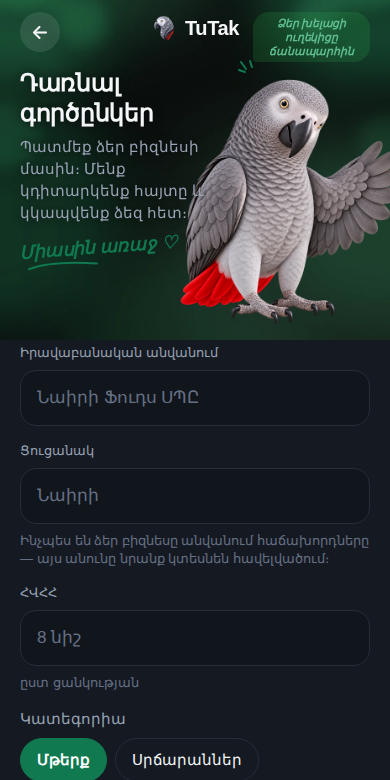
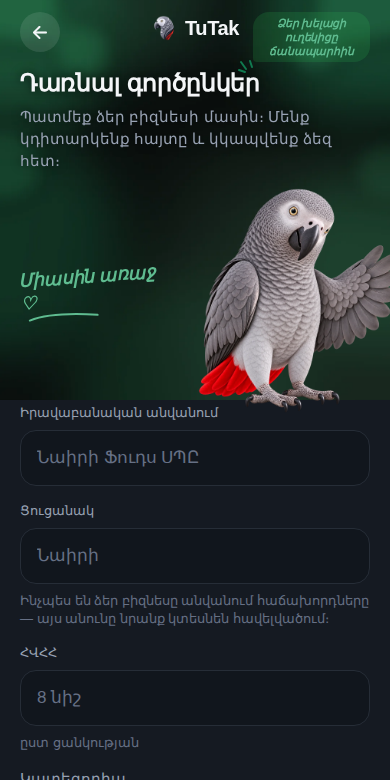
mobile: Jako scene — words above the bird, note beside him, nothing on a wing
The owner saw titles lying on the wing and notes lost in the ground. The
halo was not the answer; not putting text on the bird is. The stage is
now the words at full width, then a fixed-height zone in which Jako
stands at the right and the handwriting sits in the free ground to his
left, clear of the whole frame. The stage takes the height its language
needs, with no measurement. Handwriting in the deep brand green on the
light ground and the light one on ink. demo/ regenerated; report and
evidence updated.

Claude-Session: https://claude.ai/code/session_013ULUCUZuw1Zg7dYDWmDgB6

diff --git a/apps/mobile/src/presentation/components/JakoScene.tsx b/apps/mobile/src/presentation/components/JakoScene.tsx
@@ -27,18 +27,20 @@ const FEET_OVER_EDGE = 14;
 export type JakoSceneSize = 'hero' | 'compact';
 
 /**
- * Stage heights in points, above the sheet, before the top inset is added.
- * `hero` is the auth and partner screens; `compact` a screen whose own
- * content must stay above the fold — the lock screen's keypad, a status.
- * A short phone (`useCompactLayout`) gets the smaller value of each pair;
- * the keyboard never changes either (see `JakoHero.tsx` for why).
+ * Height of the zone Jako stands in, in points, below the words and above
+ * the sheet. `hero` is the auth and partner screens; `compact` a screen
+ * whose own content must stay above the fold — the lock screen's keypad,
+ * a status. A short phone (`useCompactLayout`) gets the smaller value of
+ * each pair; the keyboard never changes either (see `JakoHero.tsx`).
+ *
+ * The words above the zone take whatever height their language needs, so
+ * the stage as a whole is as tall as the text plus this. Nothing here is
+ * measured: it is ordinary flex layout, decided once per render.
  */
-const STAGE: Record<JakoSceneSize, { regular: number; compact: number }> = {
-  hero: { regular: 340, compact: 284 },
-  compact: { regular: 250, compact: 214 },
+const ZONE: Record<JakoSceneSize, { regular: number; compact: number }> = {
+  hero: { regular: 216, compact: 176 },
+  compact: { regular: 136, compact: 112 },
 };
-/** Jako's height as a share of the stage. */
-const FIGURE_SHARE: Record<JakoSceneSize, number> = { hero: 0.74, compact: 0.74 };
 
 interface Props {
   state: JakoState;
@@ -112,11 +114,16 @@ export function JakoScene({
   // title two points smaller so «Восстановление» stays one word.
   const narrow = useWindowDimensions().width < 380;
 
-  const stageHeight = (compact ? STAGE[size].compact : STAGE[size].regular) + insets.top;
-  const figure = Math.round((compact ? STAGE[size].compact : STAGE[size].regular) * FIGURE_SHARE[size]);
+  const zone = compact ? ZONE[size].compact : ZONE[size].regular;
+  // Exactly as tall as the zone plus the feet's reach over the sheet's edge:
+  // the top of his frame is the top of the zone, so he never rises into the
+  // words. The words are never on him; that is the whole layout.
+  const figure = zone + (SHEET_RADIUS - FEET_OVER_EDGE);
   const canGoBack = navigation?.canGoBack() ?? false;
   const dark = mode === 'dark';
-  const ink = premium.brand.primary;
+  // The handwriting: the deep brand green on the light ground, the light
+  // one on ink. The mid green disappeared into the bokeh.
+  const ink = dark ? premium.brand.light : premium.brand.dark;
   const bubbleFill = dark ? 'rgba(52, 199, 89, 0.16)' : 'rgba(31, 122, 76, 0.10)';
   const buttonFill = dark ? 'rgba(255, 255, 255, 0.10)' : 'rgba(255, 255, 255, 0.86)';
   // A faint halo the colour of the ground, so a long title or subtitle
@@ -129,7 +136,7 @@ export function JakoScene({
 
   const stage = (
     <View
-      style={[styles.stage, { height: stageHeight, paddingTop: insets.top }]}
+      style={[styles.stage, { paddingTop: insets.top }]}
       pointerEvents="box-none"
       testID={testID ?? `scene-${state}`}
     >
@@ -166,32 +173,38 @@ export function JakoScene({
         ) : null}
       </View>
 
-      {/* Jako first, so the words are drawn over his wing rather than under it. */}
-      <View
-        pointerEvents="none"
-        style={[styles.figure, { width: figure, height: figure, right: -Math.round(figure * 0.05), bottom: SHEET_RADIUS - FEET_OVER_EDGE }]}
-        accessible={false}
-        importantForAccessibility="no-hide-descendants"
-        accessibilityElementsHidden
-      >
-        <Image source={jakoAsset(state)} style={styles.figureImage} contentFit="contain" transition={0} accessibilityIgnoresInvertColors />
-      </View>
-
-      <View style={[styles.words, narrow ? styles.wordsNarrow : null, { paddingHorizontal: layout.screenPaddingX, marginTop: space[3] }]} pointerEvents="box-none">
+      <View style={[styles.words, { paddingHorizontal: layout.screenPaddingX, marginTop: space[3] }]} pointerEvents="box-none">
         <Text accessibilityRole="header" style={[size === 'hero' ? text.titleLg : text.title, styles.title, narrow && size === 'hero' ? styles.titleNarrow : null, { color: color.textPrimary }, legible]}>
           {title}
         </Text>
         {subtitle ? (
           <Text style={[text.bodySm, { color: color.textSecondary, marginTop: space[2] }, legible]}>{subtitle}</Text>
         ) : null}
+      </View>
+
+      {/* Jako's zone: he stands at the right, the note sits in the free
+          ground to his left. Neither is under the other. */}
+      <View style={[styles.zone, { height: zone, marginTop: space[3] }]} pointerEvents="none">
+        <View
+          style={[styles.figure, { width: figure, height: figure, right: -Math.round(figure * 0.05), bottom: -(SHEET_RADIUS - FEET_OVER_EDGE) }]}
+          accessible={false}
+          importantForAccessibility="no-hide-descendants"
+          accessibilityElementsHidden
+        >
+          <Image source={jakoAsset(state)} style={styles.figureImage} contentFit="contain" transition={0} accessibilityIgnoresInvertColors />
+        </View>
         {note ? (
-          <View style={[styles.noteWrap, { marginTop: space[3] }]}>
-            <Handwritten size={size === 'hero' ? 26 : 22} color={ink} testID="scene-note">
-              {note}
-            </Handwritten>
-            <Svg width={72} height={10} viewBox="0 0 72 10" style={styles.underline}>
-              <Path d="M2 7 C 18 2, 40 2, 70 6" stroke={ink} strokeWidth={2} strokeLinecap="round" fill="none" />
-            </Svg>
+          // Clear of the whole frame, wings included: on a narrow phone the
+          // note wraps to two lines rather than touch a feather.
+          <View style={[styles.noteZone, { left: layout.screenPaddingX, right: Math.round(figure * 0.96) }]}>
+            <View style={styles.noteWrap}>
+              <Handwritten size={size === 'hero' ? 26 : 22} color={ink} testID="scene-note">
+                {note}
+              </Handwritten>
+              <Svg width={72} height={10} viewBox="0 0 72 10" style={styles.underline}>
+                <Path d="M2 7 C 18 2, 40 2, 70 6" stroke={ink} strokeWidth={2} strokeLinecap="round" fill="none" />
+              </Svg>
+            </View>
           </View>
         ) : null}
       </View>
@@ -204,11 +217,11 @@ export function JakoScene({
             { top: insets.top + space[2] + 4, right: layout.screenPaddingX, backgroundColor: bubbleFill, paddingHorizontal: space[3], paddingVertical: space[1] },
           ]}
         >
-          <Handwritten size={16} color={dark ? premium.brand.light : premium.brand.dark} style={styles.bubbleText} testID="scene-bubble">
+          <Handwritten size={16} color={ink} style={styles.bubbleText} testID="scene-bubble">
             {bubble}
           </Handwritten>
           <Svg width={22} height={22} viewBox="0 0 22 22" style={styles.sparkle}>
-            <Path d="M4 4 L9 11 M13 3 L15 9 M2 12 L8 14" stroke={ink} strokeWidth={2} strokeLinecap="round" />
+            <Path d="M4 4 L9 11 M13 3 L15 9 M2 12 L8 14" stroke={premium.brand.primary} strokeWidth={2} strokeLinecap="round" />
           </Svg>
         </View>
       ) : null}
@@ -283,12 +296,13 @@ const styles = StyleSheet.create({
   logo: { position: 'absolute', left: 0, right: 0, top: 8, height: 40, flexDirection: 'row', alignItems: 'center', justifyContent: 'center' },
   mark: { width: 26, height: 26 },
   wordmark: { fontWeight: '800', letterSpacing: -0.4 },
-  words: { maxWidth: '66%', zIndex: 1 },
-  // A 360pt phone: the gutters take a larger share of the width, so the
-  // words get a larger share too — «Восстановление» must stay one word.
-  wordsNarrow: { maxWidth: '72%' },
+  // Room on the right for the bubble's tail to breathe; the title wraps by
+  // word inside it and is never under the bird, which sits lower.
+  words: { paddingRight: '8%' },
   title: { fontWeight: '800' },
   titleNarrow: { fontSize: 26, lineHeight: 32 },
+  zone: { overflow: 'visible' },
+  noteZone: { position: 'absolute', top: 0, bottom: 0, justifyContent: 'center' },
   noteWrap: { alignSelf: 'flex-start', transform: [{ rotate: '-4deg' }], paddingRight: 8 },
   underline: { marginTop: -2, marginLeft: 6 },
   figure: { position: 'absolute' },

diff --git a/demo/src/presentation/components/JakoScene.tsx b/demo/src/presentation/components/JakoScene.tsx
@@ -27,18 +27,20 @@ const FEET_OVER_EDGE = 14;
 export type JakoSceneSize = 'hero' | 'compact';
 
 /**
- * Stage heights in points, above the sheet, before the top inset is added.
- * `hero` is the auth and partner screens; `compact` a screen whose own
- * content must stay above the fold — the lock screen's keypad, a status.
- * A short phone (`useCompactLayout`) gets the smaller value of each pair;
- * the keyboard never changes either (see `JakoHero.tsx` for why).
+ * Height of the zone Jako stands in, in points, below the words and above
+ * the sheet. `hero` is the auth and partner screens; `compact` a screen
+ * whose own content must stay above the fold — the lock screen's keypad,
+ * a status. A short phone (`useCompactLayout`) gets the smaller value of
+ * each pair; the keyboard never changes either (see `JakoHero.tsx`).
+ *
+ * The words above the zone take whatever height their language needs, so
+ * the stage as a whole is as tall as the text plus this. Nothing here is
+ * measured: it is ordinary flex layout, decided once per render.
  */
-const STAGE: Record<JakoSceneSize, { regular: number; compact: number }> = {
-  hero: { regular: 340, compact: 284 },
-  compact: { regular: 250, compact: 214 },
+const ZONE: Record<JakoSceneSize, { regular: number; compact: number }> = {
+  hero: { regular: 216, compact: 176 },
+  compact: { regular: 136, compact: 112 },
 };
-/** Jako's height as a share of the stage. */
-const FIGURE_SHARE: Record<JakoSceneSize, number> = { hero: 0.74, compact: 0.74 };
 
 interface Props {
   state: JakoState;
@@ -112,11 +114,16 @@ export function JakoScene({
   // title two points smaller so «Восстановление» stays one word.
   const narrow = useWindowDimensions().width < 380;
 
-  const stageHeight = (compact ? STAGE[size].compact : STAGE[size].regular) + insets.top;
-  const figure = Math.round((compact ? STAGE[size].compact : STAGE[size].regular) * FIGURE_SHARE[size]);
+  const zone = compact ? ZONE[size].compact : ZONE[size].regular;
+  // Exactly as tall as the zone plus the feet's reach over the sheet's edge:
+  // the top of his frame is the top of the zone, so he never rises into the
+  // words. The words are never on him; that is the whole layout.
+  const figure = zone + (SHEET_RADIUS - FEET_OVER_EDGE);
   const canGoBack = navigation?.canGoBack() ?? false;
   const dark = mode === 'dark';
-  const ink = premium.brand.primary;
+  // The handwriting: the deep brand green on the light ground, the light
+  // one on ink. The mid green disappeared into the bokeh.
+  const ink = dark ? premium.brand.light : premium.brand.dark;
   const bubbleFill = dark ? 'rgba(52, 199, 89, 0.16)' : 'rgba(31, 122, 76, 0.10)';
   const buttonFill = dark ? 'rgba(255, 255, 255, 0.10)' : 'rgba(255, 255, 255, 0.86)';
   // A faint halo the colour of the ground, so a long title or subtitle
@@ -129,7 +136,7 @@ export function JakoScene({
 
   const stage = (
     <View
-      style={[styles.stage, { height: stageHeight, paddingTop: insets.top }]}
+      style={[styles.stage, { paddingTop: insets.top }]}
       pointerEvents="box-none"
       testID={testID ?? `scene-${state}`}
     >
@@ -166,32 +173,38 @@ export function JakoScene({
         ) : null}
       </View>
 
-      {/* Jako first, so the words are drawn over his wing rather than under it. */}
-      <View
-        pointerEvents="none"
-        style={[styles.figure, { width: figure, height: figure, right: -Math.round(figure * 0.05), bottom: SHEET_RADIUS - FEET_OVER_EDGE }]}
-        accessible={false}
-        importantForAccessibility="no-hide-descendants"
-        accessibilityElementsHidden
-      >
-        <Image source={jakoAsset(state)} style={styles.figureImage} contentFit="contain" transition={0} accessibilityIgnoresInvertColors />
-      </View>
-
-      <View style={[styles.words, narrow ? styles.wordsNarrow : null, { paddingHorizontal: layout.screenPaddingX, marginTop: space[3] }]} pointerEvents="box-none">
+      <View style={[styles.words, { paddingHorizontal: layout.screenPaddingX, marginTop: space[3] }]} pointerEvents="box-none">
         <Text accessibilityRole="header" style={[size === 'hero' ? text.titleLg : text.title, styles.title, narrow && size === 'hero' ? styles.titleNarrow : null, { color: color.textPrimary }, legible]}>
           {title}
         </Text>
         {subtitle ? (
           <Text style={[text.bodySm, { color: color.textSecondary, marginTop: space[2] }, legible]}>{subtitle}</Text>
         ) : null}
+      </View>
+
+      {/* Jako's zone: he stands at the right, the note sits in the free
+          ground to his left. Neither is under the other. */}
+      <View style={[styles.zone, { height: zone, marginTop: space[3] }]} pointerEvents="none">
+        <View
+          style={[styles.figure, { width: figure, height: figure, right: -Math.round(figure * 0.05), bottom: -(SHEET_RADIUS - FEET_OVER_EDGE) }]}
+          accessible={false}
+          importantForAccessibility="no-hide-descendants"
+          accessibilityElementsHidden
+        >
+          <Image source={jakoAsset(state)} style={styles.figureImage} contentFit="contain" transition={0} accessibilityIgnoresInvertColors />
+        </View>
         {note ? (
-          <View style={[styles.noteWrap, { marginTop: space[3] }]}>
-            <Handwritten size={size === 'hero' ? 26 : 22} color={ink} testID="scene-note">
-              {note}
-            </Handwritten>
-            <Svg width={72} height={10} viewBox="0 0 72 10" style={styles.underline}>
-              <Path d="M2 7 C 18 2, 40 2, 70 6" stroke={ink} strokeWidth={2} strokeLinecap="round" fill="none" />
-            </Svg>
+          // Clear of the whole frame, wings included: on a narrow phone the
+          // note wraps to two lines rather than touch a feather.
+          <View style={[styles.noteZone, { left: layout.screenPaddingX, right: Math.round(figure * 0.96) }]}>
+            <View style={styles.noteWrap}>
+              <Handwritten size={size === 'hero' ? 26 : 22} color={ink} testID="scene-note">
+                {note}
+              </Handwritten>
+              <Svg width={72} height={10} viewBox="0 0 72 10" style={styles.underline}>
+                <Path d="M2 7 C 18 2, 40 2, 70 6" stroke={ink} strokeWidth={2} strokeLinecap="round" fill="none" />
+              </Svg>
+            </View>
           </View>
         ) : null}
       </View>
@@ -204,11 +217,11 @@ export function JakoScene({
             { top: insets.top + space[2] + 4, right: layout.screenPaddingX, backgroundColor: bubbleFill, paddingHorizontal: space[3], paddingVertical: space[1] },
           ]}
         >
-          <Handwritten size={16} color={dark ? premium.brand.light : premium.brand.dark} style={styles.bubbleText} testID="scene-bubble">
+          <Handwritten size={16} color={ink} style={styles.bubbleText} testID="scene-bubble">
             {bubble}
           </Handwritten>
           <Svg width={22} height={22} viewBox="0 0 22 22" style={styles.sparkle}>
-            <Path d="M4 4 L9 11 M13 3 L15 9 M2 12 L8 14" stroke={ink} strokeWidth={2} strokeLinecap="round" />
+            <Path d="M4 4 L9 11 M13 3 L15 9 M2 12 L8 14" stroke={premium.brand.primary} strokeWidth={2} strokeLinecap="round" />
           </Svg>
         </View>
       ) : null}
@@ -283,12 +296,13 @@ const styles = StyleSheet.create({
   logo: { position: 'absolute', left: 0, right: 0, top: 8, height: 40, flexDirection: 'row', alignItems: 'center', justifyContent: 'center' },
   mark: { width: 26, height: 26 },
   wordmark: { fontWeight: '800', letterSpacing: -0.4 },
-  words: { maxWidth: '66%', zIndex: 1 },
-  // A 360pt phone: the gutters take a larger share of the width, so the
-  // words get a larger share too — «Восстановление» must stay one word.
-  wordsNarrow: { maxWidth: '72%' },
+  // Room on the right for the bubble's tail to breathe; the title wraps by
+  // word inside it and is never under the bird, which sits lower.
+  words: { paddingRight: '8%' },
   title: { fontWeight: '800' },
   titleNarrow: { fontSize: 26, lineHeight: 32 },
+  zone: { overflow: 'visible' },
+  noteZone: { position: 'absolute', top: 0, bottom: 0, justifyContent: 'center' },
   noteWrap: { alignSelf: 'flex-start', transform: [{ rotate: '-4deg' }], paddingRight: 8 },
   underline: { marginTop: -2, marginLeft: 6 },
   figure: { position: 'absolute' },

diff --git a/docs/JAKO_SCENE_2026-09-20_RU.md b/docs/JAKO_SCENE_2026-09-20_RU.md
@@ -40,14 +40,18 @@
 
 - `apps/mobile/src/presentation/components/JakoScene.tsx` — сцена целиком:
   фон-боке, верхняя строка (круглая «назад», логотип по центру, облачко
-  справа над головой Жако), заголовок и подзаголовок с мягким ореолом
-  цвета фона (читаются поверх крыла), рукописная заметка с росчерком,
-  Жако (74 % высоты сцены), лапы на 14 pt ниже кромки листа, лист с
-  радиусом 28 и содержимым экрана. Два размера: `hero` (340/284 pt) и
-  `compact` (250/214 pt) — меньшее значение на коротких экранах по
-  `useCompactLayout`, никогда по клавиатуре. `scroll={false}` для экранов
-  с клавиатурой кода. Хуки навигации и safe-area обёрнуты: экранные
-  тесты рендерят без провайдеров.
+  справа), заголовок и подзаголовок на всю ширину **над** Жако, ниже
+  зона Жако: он стоит справа лапами на кромке листа, рукописная заметка
+  с росчерком в свободном месте слева от него. Текст и птица никогда не
+  пересекаются: после первого показа владелец сказал, что надписи
+  «лежат на крыле», и вариант «текст слева, птица справа» заменён этим.
+  Зона Жако фиксирована: `hero` 216/176 pt, `compact` 136/112 pt
+  (меньшее на коротких экранах по `useCompactLayout`, никогда по
+  клавиатуре); высота слов — сколько нужно языку, без измерений. Лист с
+  радиусом 28. `scroll={false}` для экранов с клавиатурой кода. Хуки
+  навигации и safe-area обёрнуты: экранные тесты рендерят без
+  провайдеров. Заметка и облачко — тёмно-зелёным (`brand.dark`) на
+  светлом, светло-зелёным на тёмном: средний зелёный тонул в боке.
 - `Handwritten.tsx` — рукописный текст: Caveat через `expo-font`
   (`useFonts`, без блокировки сплеша), откат на курсив для армянского и
   на первый кадр до загрузки шрифта.
@@ -109,7 +113,8 @@ OFL. `demo/` перегенерирован.
   forgot, HY light PIN/lock/партнёрская форма целиком/заявка
   отправлена/удаление, HY dark форма и удаление.
 - Матрица 3 языка × 2 темы × 2 ширины для четырёх auth-экранов снята
-  (48 файлов), в репозиторий положены только характерные.
+  (48 файлов) плюс подписанные экраны в HY light и dark (22 файла); в
+  репозиторий положены только характерные.
 
 ## Что НЕ сделано
 
@@ -117,15 +122,10 @@ OFL. `demo/` перегенерирован.
   `fontScale 1.3`, клавиатура/фокус — не проверено, устройств в сессии
   нет. Всё визуальное подтверждение с web-экспорта в Chromium.
 - **Шрифт в браузере**: Chromium в контейнере без Roboto рисует
-  системный шрифт DejaVu, который шире. На 360 pt русское
-  «Восстановление» ломалось посреди слова, поэтому на узких экранах
-  заголовок 26 pt и блок слов 72 % ширины. На Android с Roboto запас
-  больше; на устройстве проверить.
+  системный шрифт DejaVu, который шире. На 360 pt заголовок 26 pt. На
+  Android с Roboto запас больше; на устройстве проверить.
 - **Облачко на HY** переносится на три строки (длинная фраза) — принял,
   но короче фразу не придумал без потери смысла.
-- **Экран «заявка отправлена» в тёмной теме** не снят: второй прогон
-  захвата упёрся в 409 (заявка демо-пользователя уже была в базе после
-  первого прогона).
 - **Home, Wallet, Partners, Settings** не трогал (кроме глобальной
   высоты полей/кнопок). Бриф §8 просил проверить; я счёл, что без
   устройства их не улучшать.
@@ -135,6 +135,10 @@ OFL. `demo/` перегенерирован.
 
 ### Собственные ошибки по ходу
 
+- Вторая версия (текст слева, Жако справа, заголовок с ореолом поверх
+  крыла) тоже не прошла: владелец увидел надписи на крыле и плохо
+  читаемые заметки. Ореол не решение, решение — не класть текст на
+  птицу. Перестроил в третий раз.
 - Первая версия (JakoHero + мастер, apk-preview-65) не совпала с тем,
   что хотел владелец. Я читал бриф буквально («компонент», «4
   состояния») и не спросил про визуальный эталон. Час работы и одна
@@ -183,4 +187,4 @@ OFL. `demo/` перегенерирован.
 
 ## Финальный статус
 
-`NOT COMPLETE — нет проверки на Samsung/Xiaomi/iOS и fontScale 1.3 (нет устройств в сессии); Home/Wallet/Partners по §8 не трогал; экран «заявка отправлена» в тёмной теме не снят`
+`NOT COMPLETE — нет проверки на Samsung/Xiaomi/iOS и fontScale 1.3 (нет устройств в сессии); Home/Wallet/Partners по §8 не трогал`
